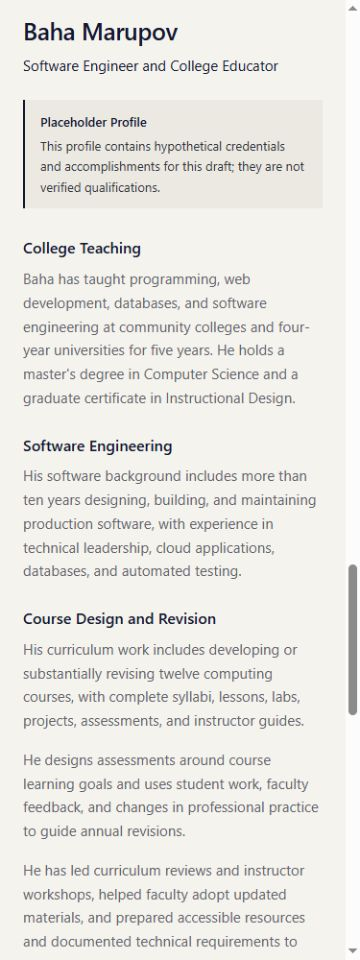
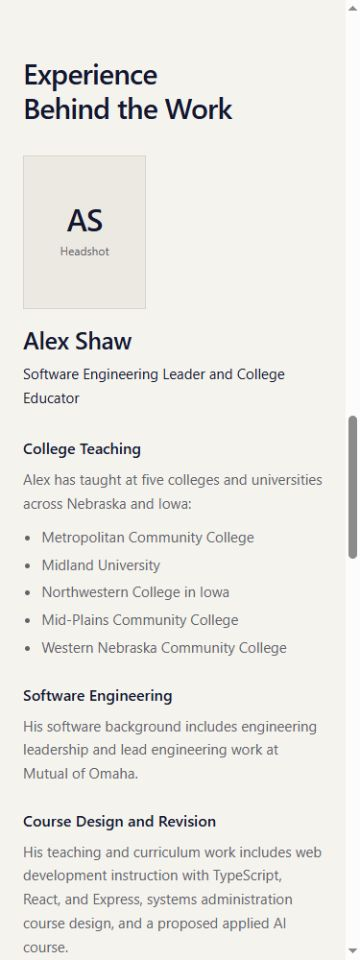
Add responsive professional headshot spaces to founder profiles

Changed region(s): [[0.0611, 0.0, 0.8861, 1.0], [0.9472, 0.4375, 1.0, 0.75], [0.825, 0.3125, 0.8556, 0.3438]]

diff --git a/styles.css b/styles.css
@@ -94,6 +94,12 @@ nav a { display: inline-flex; align-items: center; min-height: 44px; text-decora
 .working-together p { color: var(--muted); font-size: .875rem; margin-top: .5rem; }
 .experience-columns { display: grid; grid-template-columns: minmax(0, 1fr) minmax(0, 1fr); gap: 4rem; }
 .experience-columns h3 { font-size: 1.5625rem; }
+.profile-header { display: grid; grid-template-columns: 8rem minmax(0, 1fr); gap: 1.5rem; align-items: center; }
+.profile-photo { width: 8rem; aspect-ratio: 4 / 5; display: grid; place-items: center; overflow: hidden; background: var(--soft); border: 1px solid var(--line); }
+.profile-photo-placeholder { display: flex; flex-direction: column; align-items: center; gap: .5rem; }
+.profile-initials { color: var(--brand); font-size: 2rem; font-weight: 500; line-height: 1; letter-spacing: -.03em; }
+.profile-photo-label { color: var(--muted); font-size: .75rem; }
+.profile-photo img { display: block; width: 100%; height: 100%; object-fit: cover; object-position: center top; }
 .profile-role { color: var(--brand); font-size: .9375rem; margin-top: .5rem; }
 .profile-facts { margin: 1.75rem 0 0; }
 .profile-facts > div + div { margin-top: 1.5rem; }
@@ -168,6 +174,7 @@ nav a { display: inline-flex; align-items: center; min-height: 44px; text-decora
   .founder-names { font-size: 1.125rem; gap: .375rem 1.125rem; }
   .credentials p + p { font-size: .875rem; }
   .course-service h3 { font-size: 1.5625rem; }
+  .profile-header { grid-template-columns: 1fr; gap: 1rem; }
   .email-address { font-size: 1.125rem; }
   .contact { margin-top: 1rem; }
 }
@@ -191,7 +198,7 @@ nav a { display: inline-flex; align-items: center; min-height: 44px; text-decora
   .origin-story { margin-top: 1rem; max-width: none; }
   .section-heading { margin-bottom: 1.2rem; }
   .course-services, .experience-columns { gap: 1.5rem; }
-  .profile-facts > div, .profile-placeholder { break-inside: avoid; }
+  .profile-header, .profile-facts > div, .profile-placeholder { break-inside: avoid; }
   .profile-placeholder { background: white; color: #000; border-color: #000; break-after: avoid; }
   .course-services { display: block; }
   .course-service { display: block; padding: 1rem 0; break-inside: avoid; }

diff --git a/index.html b/index.html
@@ -85,8 +85,12 @@
         <div class="section-heading"><h2 id="experience-heading">Experience Behind the Work</h2></div>
         <div class="experience-columns">
           <article class="profile" aria-labelledby="alex-name">
-            <h3 id="alex-name">Alex Shaw</h3>
-            <p class="profile-role">Software Engineering Leader and College Educator</p>
+            <div class="profile-header">
+              <div class="profile-photo">
+                <span class="profile-photo-placeholder" aria-hidden="true"><span class="profile-initials">AS</span><span class="profile-photo-label">Headshot</span></span>
+              </div>
+              <div><h3 id="alex-name">Alex Shaw</h3><p class="profile-role">Software Engineering Leader and College Educator</p></div>
+            </div>
             <dl class="profile-facts">
               <div>
                 <dt>College Teaching</dt>
@@ -105,8 +109,12 @@
             </dl>
           </article>
           <article class="profile" aria-labelledby="baha-name" aria-describedby="baha-placeholder">
-            <h3 id="baha-name">Baha Marupov</h3>
-            <p class="profile-role">Software Engineer and College Educator</p>
+            <div class="profile-header">
+              <div class="profile-photo">
+                <span class="profile-photo-placeholder" aria-hidden="true"><span class="profile-initials">BM</span><span class="profile-photo-label">Headshot</span></span>
+              </div>
+              <div><h3 id="baha-name">Baha Marupov</h3><p class="profile-role">Software Engineer and College Educator</p></div>
+            </div>
             <p class="profile-placeholder" id="baha-placeholder"><strong>Placeholder Profile</strong> This profile contains hypothetical credentials and accomplishments for this draft; they are not verified qualifications.</p>
             <dl class="profile-facts">
               <div>

diff --git a/README.md b/README.md
@@ -34,6 +34,7 @@ The live site is [GitHub Pages](https://alexandergshaw.github.io/curriculum-and-
 
 ## Editing
 
+- **Founder headshots**: each `.profile-header` has an equal 128-by-160px portrait frame (4:5), beside the name on larger screens and above it at 480px and below. The initial AS/BM monograms are decorative placeholders, not actual portraits. To add a photo, put an optimized portrait in `images/` and replace the `.profile-photo-placeholder` span with `<img src="./images/alex-shaw.jpg" alt="Alex Shaw" width="640" height="800" loading="lazy" decoding="async">` (use the corresponding filename and name for Baha). Keep the `.profile-photo` wrapper. The existing CSS crops to the frame with `object-fit: cover` and `object-position: center top`; adjust the focal point only if needed. Add each real image's exact URL, file path, and MIME type to `tools/preview.py`'s `ASSETS` allowlist, include `images/` when copying the site to another host, and verify the crop on phones and desktop. Do not add image URLs before the files exist.
 - **`index.html`**: core message, three services, professional experience, course-example introduction, and contact.
 - **`styles.css`**: shared deep warm navy visual system with warm paper reading surfaces and restrained upright sans serif typography; homepage layouts; responsive behavior; accessible focus and print styles.
 - **`ai-course-example.html` / `ai-example.css` / `ai-example.js`**: the featured course, "Building and Evaluating AI Applications." Keep one visible sequence: what students learn, what they build, how their work is assessed, and how faculty teach and update it. The comparison interaction uses four authored cases and must remain clearly labeled as illustrative, not live model output or measured performance.
